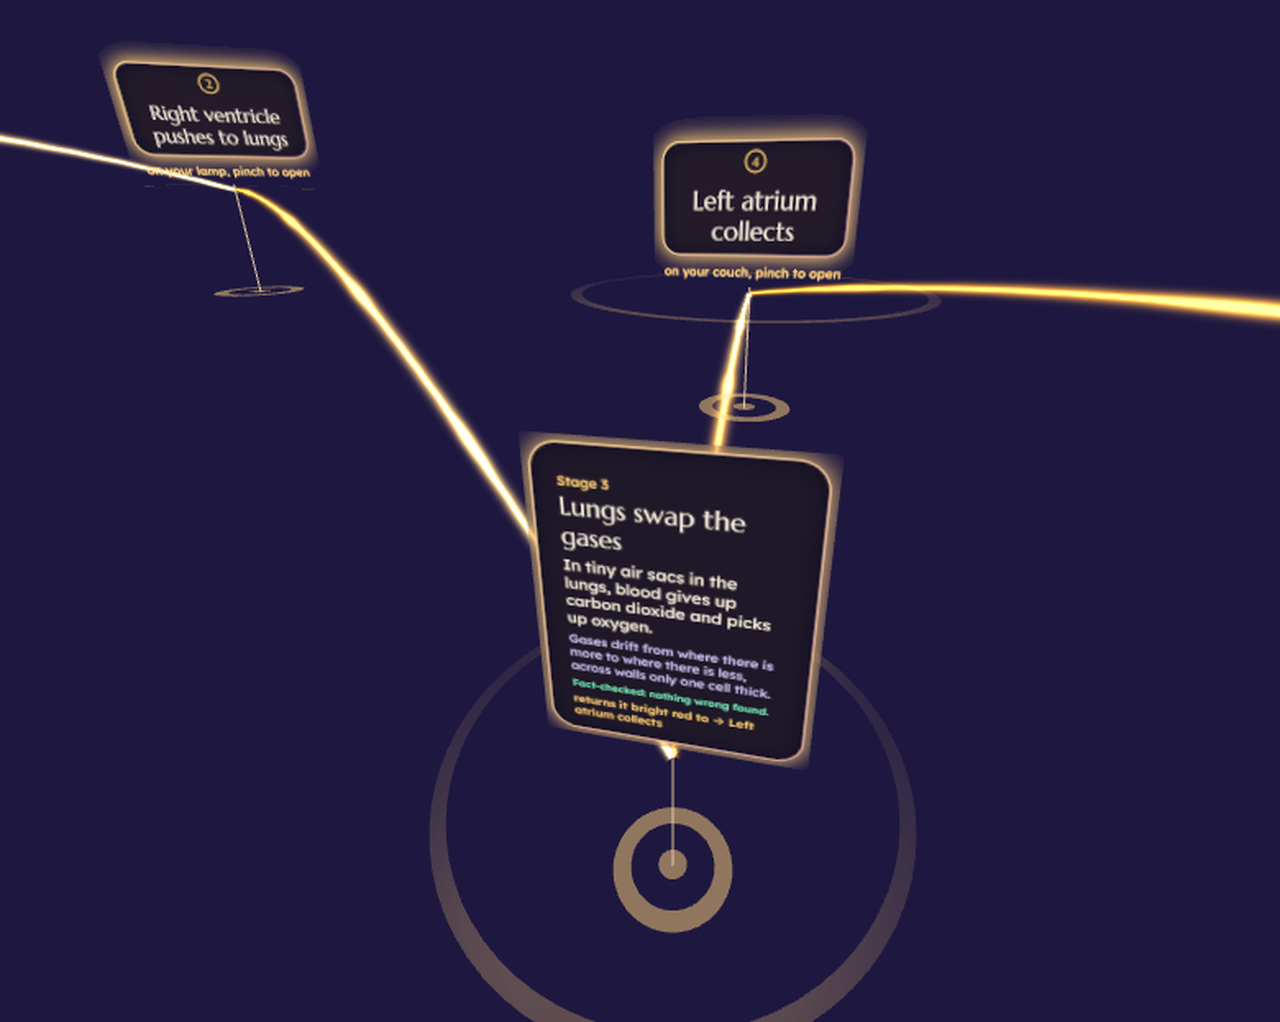
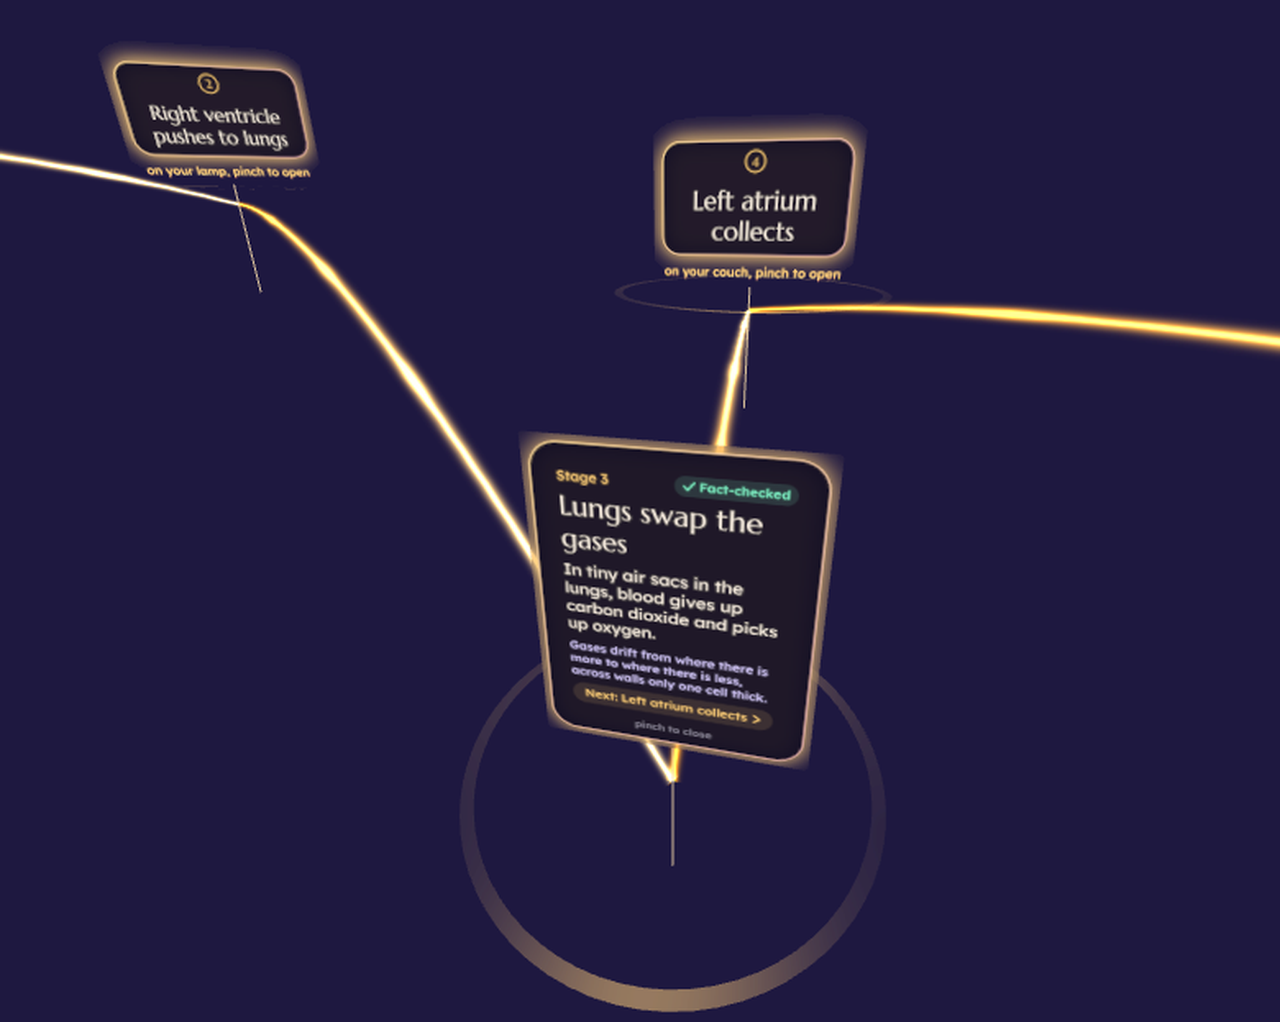
Opened card: badge, larger type, next-stage chip; thread clears the labels; one ring per stage; three headset shots re-taken; receipts timestamps fixed

diff --git a/src/xr/tile-art.ts b/src/xr/tile-art.ts
@@ -359,20 +359,84 @@ function drawConcept(ctx: CanvasRenderingContext2D, item: MemoryItem, face: Face
   // Opened: the full stage blooms into a card.
   glass(ctx, 14, 14, w - 28, h - 28, 50, 0.6, style.contrast);
   if (face === 'hint') {
+    // One idea per card: the claim and why it holds, in type you can read at
+    // arm's length. The fact-check is a badge, and the way on is a chip.
     ctx.textAlign = 'left';
     ctx.fillStyle = accent;
     ctx.font = `500 24px ${UI_FONT}`;
-    ctx.fillText(`Stage ${item.order + 1}`, left, 92);
-    let y = block(item.cue, 100, 46, 32, 2, ink, 400, DISPLAY_FONT);
-    y = block(item.answer, y + 2, 30, 22, 4, ink);
-    if (item.why) y = block(item.why, y + 4, 25, 19, 3, style.contrast ? '#fff' : LILAC);
-    if (item.doubt) y = block(`Double-check: ${item.doubt}`, y + 4, 21, 17, 2, accent, 500);
-    else if (item.checked) y = block('Fact-checked: nothing wrong found.', y + 4, 21, 17, 1, style.contrast ? '#fff' : C.mint, 500);
-    const room = Math.floor((h - (item.link && style.next ? 150 : 120) - y) / 30);
-    if (room >= 1) block(item.scene, y + 4, 23, 19, Math.min(3, room), soft, 300);
-    // The link to the next stage can run long: wrap it rather than run off the card.
-    if (item.link && style.next) block(`${item.link} → ${style.next}`, h - 104, 24, 18, 2, accent, 500);
-    else hint(style.dwell ? 'look away to close' : 'pinch to close', h - 52);
+    ctx.fillText(`Stage ${item.order + 1}`, left, 82);
+    if (item.doubt || item.checked) {
+      const ok = !item.doubt;
+      const label = ok ? 'Fact-checked' : 'Double-check';
+      const tone = style.contrast ? '#ffffff' : ok ? C.mint : ROSE;
+      ctx.font = `600 21px ${UI_FONT}`;
+      const tw = ctx.measureText(label).width + 52;
+      const bx = w - left - tw;
+      ctx.fillStyle = ok ? 'rgba(126, 240, 196, 0.14)' : 'rgba(255, 158, 196, 0.16)';
+      roundRect(ctx, bx, 56, tw, 36, 18);
+      ctx.fill();
+      ctx.strokeStyle = tone;
+      ctx.lineWidth = 3;
+      ctx.lineCap = 'round';
+      ctx.beginPath();
+      if (ok) {
+        ctx.moveTo(bx + 15, 74);
+        ctx.lineTo(bx + 21, 80);
+        ctx.lineTo(bx + 32, 67);
+      } else {
+        ctx.moveTo(bx + 23, 65);
+        ctx.lineTo(bx + 23, 75);
+        ctx.moveTo(bx + 23, 81);
+        ctx.lineTo(bx + 23, 82);
+      }
+      ctx.stroke();
+      ctx.fillStyle = tone;
+      ctx.fillText(label, bx + 40, 81);
+    }
+    const chip = Boolean(item.link && style.next);
+    const floor = chip ? h - 138 : h - 84;
+    let y = block(item.cue, 96, 50, 34, 2, ink, 400, DISPLAY_FONT);
+    y = block(item.answer, y + 4, 31, 24, 4, ink);
+    // The reason (or what to double-check) only if it fits at a readable size.
+    const second = item.doubt ?? item.why;
+    if (second) {
+      ctx.font = `500 23px ${UI_FONT}`;
+      const f = fitText(ctx, second, maxW, 3, 26, 20, 500);
+      const whole = !f.lines[f.lines.length - 1].endsWith('…');
+      if (whole && y + 6 + f.px * 1.25 * f.lines.length <= floor) y = block(second, y + 6, 26, 20, 3, style.contrast ? '#fff' : item.doubt ? ROSE : LILAC, 500);
+    }
+    if (chip) {
+      // The way on: a chip naming the next stage, which the thread leads to.
+      const text = `Next: ${style.next}`;
+      const chipY = h - 130;
+      ctx.font = `500 25px ${UI_FONT}`;
+      let px = 25;
+      while (px > 19 && ctx.measureText(text).width > w - left * 2 - 70) ctx.font = `500 ${(px -= 1)}px ${UI_FONT}`;
+      const tw = Math.min(w - left * 2, ctx.measureText(text).width + 70);
+      ctx.fillStyle = 'rgba(255, 207, 122, 0.13)';
+      roundRect(ctx, left, chipY, tw, 48, 24);
+      ctx.fill();
+      ctx.fillStyle = accent;
+      ctx.fillText(text, left + 24, chipY + 32);
+      ctx.strokeStyle = accent;
+      ctx.lineWidth = 3;
+      ctx.beginPath();
+      ctx.moveTo(left + tw - 34, chipY + 16);
+      ctx.lineTo(left + tw - 24, chipY + 24);
+      ctx.lineTo(left + tw - 34, chipY + 32);
+      ctx.stroke();
+    }
+    // The picture only when there is room for it to breathe.
+    // The picture too, but only whole: a cut-off image is worse than none.
+    if (item.scene) {
+      const f = fitText(ctx, item.scene, maxW, 2, 24, 20, 300);
+      const whole = !f.lines[f.lines.length - 1].endsWith('…');
+      if (whole && y + 4 + f.px * 1.25 * f.lines.length <= floor) block(item.scene, y + 4, 24, 20, 2, soft, 300);
+    }
+    ctx.textAlign = 'center';
+    ctx.fillStyle = 'rgba(240,235,255,0.5)';
+    ctx.font = `500 22px ${UI_FONT}`;
+    ctx.fillText(style.dwell ? 'look away to close' : 'pinch to close', cx, h - 40);
     return;
   }
 

diff --git a/src/xr/thread-system.ts b/src/xr/thread-system.ts
@@ -207,12 +207,13 @@ export class ThreadSystem extends createSystem({}) {
     this.mat.uniforms.uCalm.value = settings.calm ? 1 : 0;
     this.mat.uniforms.uBase.value += (this.baseTarget - this.mat.uniforms.uBase.value) * Math.min(1, delta * 3);
 
-    // Where each stage sits right now: just under its card.
+    // Where each stage sits right now: on its tether, under the card.
     for (let i = 0; i < n; i++) {
       const rec = this.order[i];
       rec.tile.pivot.getWorldPosition(this.nodes[i]);
       const s = rec.tile.root.scale.y;
-      this.nodes[i].y -= TILE_SIZE.h * 0.5 * s + 0.015;
+      // Low enough that the rising arc clears the card's bottom line of text.
+      this.nodes[i].y -= TILE_SIZE.h * 0.5 * s + 0.055;
     }
     this.world.camera.getWorldPosition(this.cam);
 

diff --git a/src/xr/trace-system.ts b/src/xr/trace-system.ts
@@ -80,7 +80,9 @@ export class TraceSystem extends createSystem({}) {
       // upright behind the card and cuts straight through it.
       if (Math.abs(best.normal[1]) < 0.7) return;
       used.add(best.id);
-      const r = Math.max(0.12, Math.min(0.42, Math.min(best.extent[0], best.extent[1]) * 0.45));
+      const r = Math.max(0.12, Math.min(0.32, Math.min(best.extent[0], best.extent[1]) * 0.4));
+      // One ring per stage: the traced surface replaces the small foot ring.
+      rec.tile.foot.visible = false;
       const geo = new RingGeometry(r * 0.94, r, 72, 1);
       const mat = new ShaderMaterial({
         vertexShader: VERT,

diff --git a/README.md b/README.md
@@ -11,12 +11,12 @@ Built with the Immersive Web SDK (WebXR) for the Meta VR Start Developer Competi
   <img src="docs/walk-explain-back.jpg" width="49%" alt="The explain-back step at the door: 3 of 6 stages explained, graded on the device">
 </p>
 <p>
-  <img src="docs/headset-concept.png" width="70%" alt="In the headset emulator: the concept stages for how the heart pumps blood sit on furniture around a seated viewer, joined by a gold thread">
+  <img src="docs/headset-closeup.png" width="70%" alt="In the headset (emulator capture): stages glow on the table, couch and lamp, joined by the gold thread, with rings of light on the tops they rest on.">
 </p>
 
 ---
 
-<p align="center"><img src="docs/headset-closeup.png" width="49%" alt="In the headset (emulator capture): stages glow on the table, couch and lamp, joined by the gold thread, with rings of light on the tops they rest on." /> <img src="docs/walk-stage.jpg" width="49%" alt="The website walk: a living room drawn in light, with the first stage and its myth check." /></p>
+<p align="center"><img src="docs/headset-card.png" width="49%" alt="In the headset (emulator capture): a stage pinched open, with the claim, why it holds, a Fact-checked badge and a chip naming the next stage." /> <img src="docs/walk-stage.jpg" width="49%" alt="The website walk: a living room drawn in light, with the first stage and its myth check." /></p>
 
 ## Try it in 60 seconds
 
@@ -107,12 +107,12 @@ Every number here comes from a command that can be re-run. Generated 16 Nov 2026
 
 | What | Result | Reproduce |
 | --- | --- | --- |
-| Unit tests | **102 passing** in 10 files, 0 failing (16 Nov 2026, 18:15 IST), including a check that the per-frame hand-sample ring allocates nothing | `npx vitest run` |
+| Unit tests | **102 passing** in 10 files, 0 failing (16 Nov 2026, 20:17 IST), including a check that the per-frame hand-sample ring allocates nothing | `npx vitest run` |
 | Placement property test | **1,000 seeded random rooms**, 6 to 12 memories each, 9,037 placements: every memory placed, no two closer than the solver's own minimum spacing, every slot within 70 degrees of forward and none behind the viewer, heights within the solver's limits | `npx vitest run tests/placement-property.test.ts` |
-| Concept end-to-end in the Immersive Web Emulator | **15/15 checks** (16 Nov 2026, 17:37 IST, sunlit living room, depth sensing on): pick a concept, stages land on distinct furniture, threads join and light, myth checks record recalls, exit and re-enter restores everything; restore drift **under 1 mm** | `python3 scripts/e2e-concept.py` with the dev server up |
+| Concept end-to-end in the Immersive Web Emulator | **15/15 checks** (16 Nov 2026, 17:37 IST, sunlit living room): pick a concept, stages land on distinct furniture, threads join and light, myth checks record recalls, exit and re-enter restores everything; restore drift **under 1 mm** | `python3 scripts/e2e-concept.py` with the dev server up |
 | Ask and chain practice in the emulator | **8/8 checks** (16 Nov 2026, 19:34 IST): open Ask, type "How" with three key pinches and the chips become finished questions; build a concept; Rebuild the chain dims the thread and hides the numbers; a stage out of order is refused; the stages picked in order relight every link; finishing reports the run. [docs/e2e-chain-run.txt](docs/e2e-chain-run.txt) | `python3 scripts/e2e-chain.py` with the dev server up |
 | Room matrix in the emulator | **8 of 8 synthetic rooms pass all 15 checks on the first try** (bedroom, conference room, home office, kitchen, music studio, open office, open studio, sunlit living room), in one full pass with no re-runs. 47 of 48 stages landed on the room's furniture and walls, 1 on the seated arc; restore drift under 0.1 mm in every room. With no scene data at all, all 6 stages fell back to the seated arc and 15 of 15 checks passed. 16 Nov 2026, 15:50 to 18:07 IST. [docs/test-matrix.md](docs/test-matrix.md) | `python3 scripts/matrix.py --tag=pass1` with the dev server up |
-| Frame cost in the emulator | Concept palace on screen (6 stages, threads, 4 trace rings, hub open), 300 frames: world update + render **4.6 ms p50, 8.1 ms p95** of CPU; 64 draw calls, 21,668 triangles. Per system: Loci's own systems take well under 1 ms a frame on average; the largest cost is the framework's input system on emulated hands (2.1 ms mean). Profiling found the hub re-sending unchanged panel text every 2 s; skipping identical writes cut its mean from 0.41 to 0.26 ms. Software GL (SwiftShader), so relative numbers only, not Quest frame times. 16 Nov 2026, 18:27 to 18:40 IST. [docs/perf.md](docs/perf.md) | `python3 scripts/perf.py 300` and `--systems` with the dev server up |
+| Frame cost in the emulator | Concept palace on screen (6 stages, threads, 4 trace rings, hub open), 300 frames: world update + render **4.6 ms p50, 8.1 ms p95** of CPU; 64 draw calls, 21,668 triangles. Per system: Loci's own systems take well under 1 ms a frame on average; the largest cost is the framework's input system on emulated hands (2.1 ms mean). Profiling found the hub re-sending unchanged panel text every 2 s; skipping identical writes cut its mean from 0.41 to 0.26 ms. Software GL (SwiftShader), so relative numbers only, not Quest frame times. 16 Nov 2026, 18:27 to 18:39 IST. [docs/perf.md](docs/perf.md) | `python3 scripts/perf.py 300` and `--systems` with the dev server up |
 | Palace Architect, live teach mode | **20 of 20 topics** taught (science, history, finance, law, tech, everyday, pasted notes, a child audience); median 4 stages, **83 of 88 stages kept a myth check**, median **2.7 s** server time (2.8 s wall), 16 Nov 2026, 15:43 IST | `node scripts/eval-architect.mjs` |
 
 The full Architect run, with a per-topic table and two complete outputs, is in [docs/architect-eval.md](docs/architect-eval.md). In that run all 20 answers came from the primary model (`gemini-3.5-flash-lite`) inside the 2.5 s hedge window, so no fallback started. An earlier run, when a slower model led the chain, took a median 6.1 s and every answer came from the fallback, which is why the fast model now leads.

diff --git a/docs/perf.md b/docs/perf.md
@@ -2,7 +2,7 @@
 
 **Read this first:** these numbers come from the Immersive Web Emulator (IWER, IWSDK's browser-based XR emulator) in a headless Chromium that renders with **SwiftShader, software GL on the CPU**. They are relative numbers for comparing one build with the next. They are **not Quest frame rates** and say nothing about how the app runs on a headset's GPU. Performance on a Quest 3 or 3S is still unmeasured.
 
-Ran 16 Nov 2026, 18:27 IST, with `python3 scripts/perf.py 300` (dev server up with `--allow-browser-automation`), on commit `7fff9d1`. Per-system times: `python3 scripts/perf.py 200 --systems`, 18:31 and 18:40 IST. Raw output: `.tmp/perf.json`, `.tmp/perf-systems.json`. The previous receipt (11:08 IST, before the trace-ring and hint changes) is kept in the comparison below.
+Ran 16 Nov 2026, 18:27 IST, with `python3 scripts/perf.py 300` (dev server up with `--allow-browser-automation`), on commit `7fff9d1`. Per-system times: `python3 scripts/perf.py 200 --systems`, 18:31 and 18:39 IST. Raw output: `.tmp/perf.json`, `.tmp/perf-systems.json`. The previous receipt (11:08 IST, before the trace-ring and hint changes) is kept in the comparison below.
 
 ## What was on screen
 
@@ -41,11 +41,11 @@ Compared with the 11:08 IST receipt (6.7 ms p50, 11.3 ms p95 for update + render
 | ScreenSpaceUISystem (framework) | 0 ms | 1.8 ms | 3.2 ms | 0.20 ms |
 | SceneUnderstandingSystem (framework) | 0.2 ms | 0.4 ms | 2.1 ms | 0.22 ms |
 | RoomSystem | 0.2 ms | 0.3 ms | 2.8 ms | 0.19 ms |
-| Every other system (23 more, including Thread, Recall, Guide, Palace, Trace, Check, Chain) | | 0.2 ms or less each | | 0.11 ms or less each |
+| Every other system (22 more, including Thread, Recall, Guide, Palace, Trace, Check, Chain) | | 0.2 ms or less each | | 0.11 ms or less each |
 
 `world.update()` over the same frames: p50 3.1 ms, p95 5.7 ms, mean 3.45 ms; the system means add up to 3.4 ms, so the wrappers account for the whole update. **Loci's own systems take well under 1 ms of a frame on average; the largest single cost is the framework's input system processing the emulated hands.**
 
-The first profile (18:31 IST) put HubSystem as the costliest Loci system: mean 0.41 ms, p95 1.0 ms, max 3.8 ms. Its two-second `refresh()` re-sent about 20 text and display properties to the UIKit panel even when nothing had changed, and UIKit re-lays out on each one. The hub now remembers the last value it wrote to each element and skips identical writes. Re-profiled at 18:40 IST: mean 0.26 ms, p95 0.7 ms, max 2.4 ms.
+The first profile (18:31 IST) put HubSystem as the costliest Loci system: mean 0.41 ms, p95 1.0 ms, max 3.8 ms. Its two-second `refresh()` re-sent about 20 text and display properties to the UIKit panel even when nothing had changed, and UIKit re-lays out on each one. The hub now remembers the last value it wrote to each element and skips identical writes. Re-profiled at 18:39 IST: mean 0.26 ms, p95 0.7 ms, max 2.4 ms.
 
 For scale only: a 72 Hz headset frame is 13.9 ms and a 90 Hz frame is 11.1 ms. The emulator's CPU is not a Quest's CPU, so this is a sanity check that nothing in the systems is wildly expensive, not a claim about headset headroom.
 

diff --git a/docs/DEVPOST.md b/docs/DEVPOST.md
@@ -5,8 +5,8 @@
 ## Images to upload (in this order)
 
 1. `docs/headset-closeup.png`: stages on the table, couch and lamp of the emulator's living room, joined by the gold thread, with rings of light on the tops they rest on.
-2. `docs/headset-card.png`: a stage pinched open: the claim, why it is true, the fact-check line and the link to the next stage.
-3. `docs/headset-concept.png`: the whole chain around the room.
+2. `docs/headset-card.png`: a stage pinched open: the claim, why it is true, a Fact-checked badge and a chip naming the next stage.
+3. `docs/headset-concept.png`: the whole six-stage chain around the room, with the hub panel in front of the viewer.
 4. `docs/walk-stage.jpg`: the website walk.
 5. `docs/walk-explain-back.jpg`: explain-back graded.
 
@@ -50,6 +50,9 @@ We also wanted to go past memorising lists. Most of what people need to learn is
 
 - A learning loop that uses the room itself: stages on real furniture, a causal thread, myth checks, rebuilding the chain, and spaced returns.
 - End-to-end emulator suite passing, including asking, building, the myth check, the thread, and restoring every stage to within a millimetre after re-entering.
+- All 8 of the emulator's synthetic rooms passed all 15 concept checks on the first try, with 47 of 48 stages on the room's own furniture and walls; with no scene data at all, every stage fell back to the seated arc and all 15 checks still passed.
+- The Palace Architect taught 20 of 20 test topics in a median 2.8 s each.
+- Profiled per system in the emulator, Loci's own systems take well under 1 ms of a frame on average; 102 unit tests, including a 1,000-room placement property test and a no-allocation check on the per-frame path.
 - 20 of 20 live Architect topics produced a full concept in our eval, and the fact-check pass caught 6 of 6 planted errors on the right stage with no false alarms on the shipped concepts.
 
 ## What we learned

diff --git a/docs/test-matrix.md b/docs/test-matrix.md
@@ -4,7 +4,7 @@ The concept end-to-end test (`scripts/e2e-concept.py`, 15 checks) run in every s
 
 ```sh
 python3 scripts/matrix.py --tag=pass1          # all 8 rooms + the empty room, 15:50 to 17:57 IST
-python3 scripts/matrix.py --tag=none2 none     # the empty room again after its check was corrected, 18:03 IST
+python3 scripts/matrix.py --tag=none2 none     # the empty room again after its check was corrected, 18:07 IST
 ```
 
 ## How rooms are switched
@@ -29,7 +29,7 @@ The empty room (`none`) calls `sem.deleteAll()` before and after entering XR, so
 | open_office | 32 (17 + 15) | 6 | 0 | other, desk, wall, shelf, couch, table | **15/15** | 0.0000 m | 764 s |
 | open_studio | 11 (9 + 2) | 5 | 1 | (arc), other, wall, wall, door, plant | **15/15** | 0.0000 m | 445 s |
 | sunlit_living_room | 28 (15 + 13) | 6 | 0 | window, lamp, table, couch, shelf, screen | **15/15** | 0.0000 m | 695 s |
-| none (no planes, no meshes) | 0 | 0 | 6 | all six on the arc | **15/15** (re-run 18:03 IST) | 0.0000 m | 237 s |
+| none (no planes, no meshes) | 0 | 0 | 6 | all six on the arc | **15/15** (re-run 18:07 IST) | 0.0000 m | 237 s |
 
 **All 8 synthetic rooms passed all 15 checks on the first try**, in one full pass with no re-runs; in those rooms 47 of 48 stages landed on a real surface and 1 on the arc. The earlier pass (11:34 IST) needed second runs for kitchen and music_studio; the fix was holding the emulated pinch for 1.4 s in `aim_select` (`scripts/e2e.py`), longer than the emulator's p95 frame interval. A second back-to-back full pass was started and stopped after its first room, because a full pass takes about two hours at one emulator frame a second.
 
